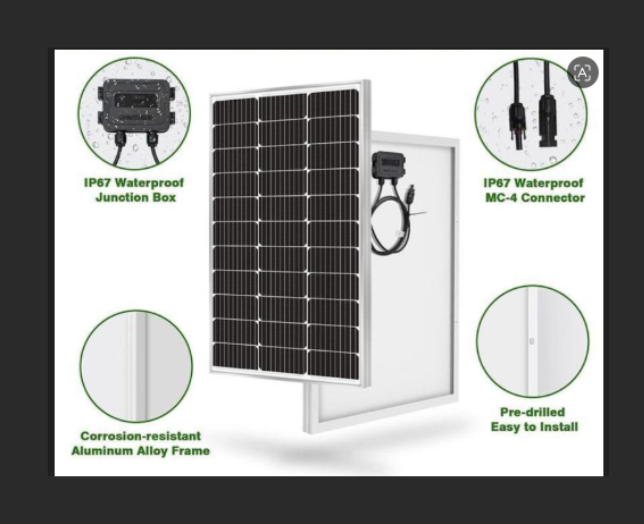
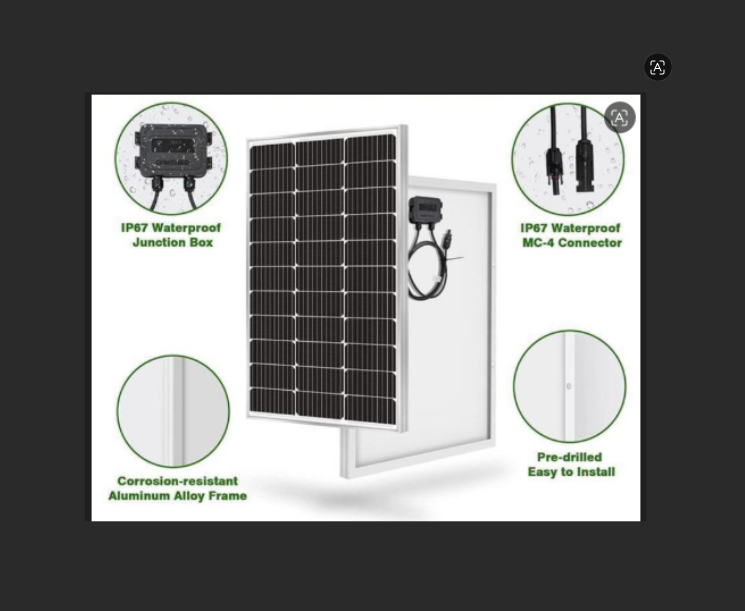
updated the management profiles and edited products section

diff --git a/src/components/LeadershipSection.tsx b/src/components/LeadershipSection.tsx
@@ -26,7 +26,7 @@ const founders: Member[] = [
         bio: "He Leads the technical vision and engineering strategy to redefine the management and distribution of renewable energy. He focuses on architecting scalable, data-driven solutions ranging from IoT telemetry for solar inverters to robust microgrid management platforms that bridge the gap beween hardware infrastructure and digital intelligence. Drawing on an extensive background in backend engineering and software architecture, Ryan is dedicated to building high-performance systems that optimize energy efficiency and operational transparency. At Gridflow, he oversees the development of the company's proprietary software ecosystem, ensuring the technology stack remains at the forefront of the energy transition while delivering reliable, sustainable power solutions.",
         linkedin: "https://www.linkedin.com/in/ryan-kinuthia/",
         initials: "RK",
-        photo: "/ryan-kinuthia.jpg",
+        photo: "/ryan-kinuthia.jpeg",
     },
 ];
 